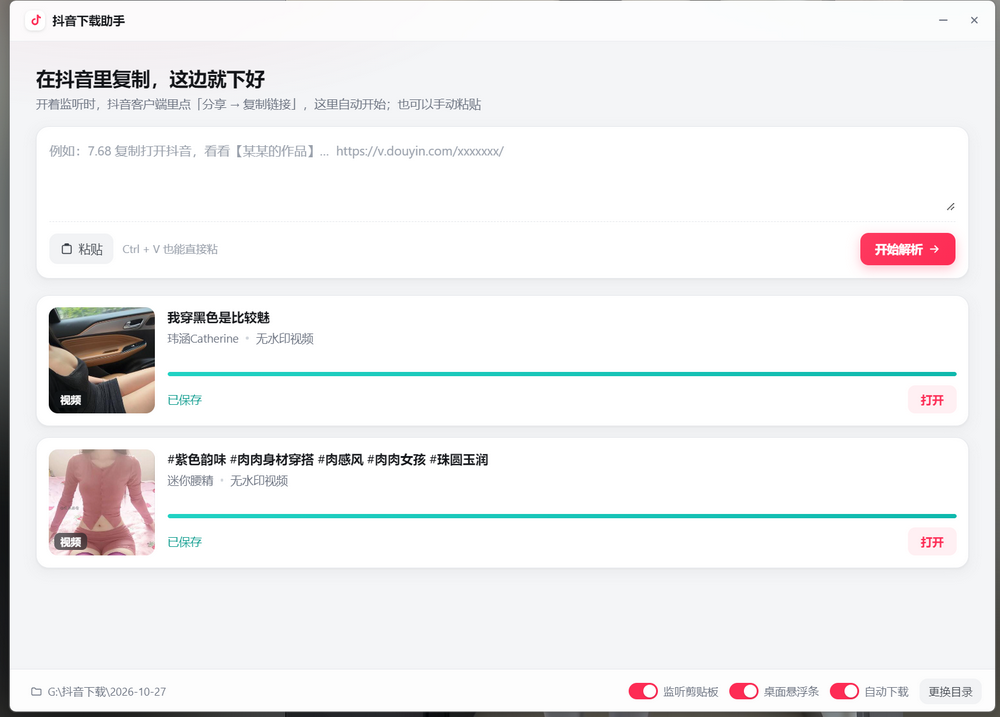
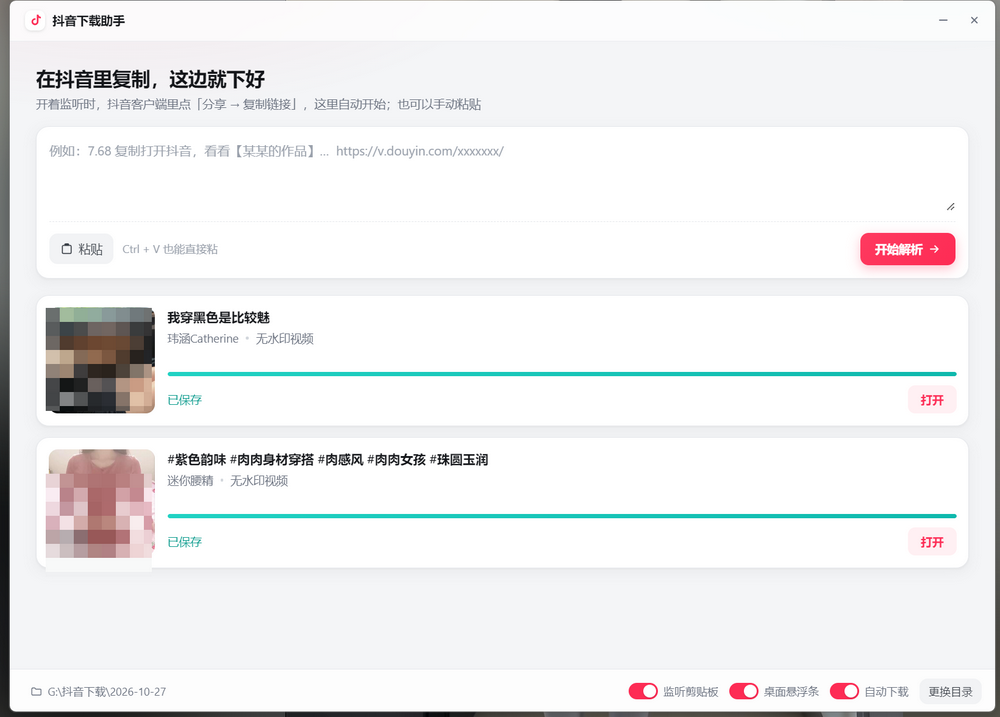
docs: 截图缩略图打码，README 增加下载入口
- docs/app-main.png 中两条作品缩略图做马赛克处理（scripts/make-shots.js 内实现，
  按块取平均色，先在全分辨率上打码再缩放）
- README 增加「下载」一节，指向 Release v1.0.0 的免安装包

Changed region(s): [[0.031, 0.4296, 0.155, 0.583], [0.031, 0.6444, 0.155, 0.7978]]

diff --git a/scripts/make-shots.js b/scripts/make-shots.js
@@ -8,41 +8,70 @@ const OUT = path.join(__dirname, '..', 'docs');
 
 function ensure(d) { if (!fs.existsSync(d)) fs.mkdirSync(d, { recursive: true }); }
 
+/** 对 BGRA 位图的一块区域做马赛克（块平均色） */
+function mosaicBitmap(buf, imgW, imgH, rects, block) {
+  for (const r of rects) {
+    const x0 = Math.max(0, Math.round(r.x));
+    const y0 = Math.max(0, Math.round(r.y));
+    const x1 = Math.min(imgW, Math.round(r.x + r.w));
+    const y1 = Math.min(imgH, Math.round(r.y + r.h));
+    for (let by = y0; by < y1; by += block) {
+      for (let bx = x0; bx < x1; bx += block) {
+        const ex = Math.min(bx + block, x1);
+        const ey = Math.min(by + block, y1);
+        let sb = 0, sg = 0, sr = 0, n = 0;
+        for (let y = by; y < ey; y++) {
+          for (let x = bx; x < ex; x++) {
+            const i = (y * imgW + x) * 4;
+            sb += buf[i]; sg += buf[i + 1]; sr += buf[i + 2]; n++;
+          }
+        }
+        if (!n) continue;
+        const b = (sb / n) | 0, g = (sg / n) | 0, rr = (sr / n) | 0;
+        for (let y = by; y < ey; y++) {
+          for (let x = bx; x < ex; x++) {
+            const i = (y * imgW + x) * 4;
+            buf[i] = b; buf[i + 1] = g; buf[i + 2] = rr; buf[i + 3] = 255;
+          }
+        }
+      }
+    }
+  }
+}
+
 app.whenReady().then(() => {
   ensure(OUT);
 
-  // 1) 主窗口：整幅缩放
+  // 1) 主窗口：先把两个作品缩略图打码，再缩放
   const a = nativeImage.createFromPath(SRC2);
   const as = a.getSize();
-  console.log('shot2 size', as.width, 'x', as.height);
-  const aOut = a.resize({ width: 1000, quality: 'best' });
+  const buf = a.toBitmap();
+  console.log('shot2 size', as.width, 'x', as.height, 'bitmap bytes', buf.length);
+  const k = as.width / 1000; // 1000 宽预览图上的坐标 → 原图坐标
+  const thumbs = [
+    { x: 46 * k, y: 308 * k, w: 106 * k, h: 103 * k },
+    { x: 46 * k, y: 474 * k, w: 106 * k, h: 103 * k },
+  ];
+  console.log('mosaic rects', JSON.stringify(thumbs.map((t) => ({
+    x: Math.round(t.x), y: Math.round(t.y), w: Math.round(t.w), h: Math.round(t.h),
+  }))));
+  mosaicBitmap(buf, as.width, as.height, thumbs, Math.round(14 * k));
+  const masked = nativeImage.createFromBuffer(buf, { width: as.width, height: as.height, scaleFactor: 1 });
+  const aOut = masked.resize({ width: 1000, quality: 'best' });
   fs.writeFileSync(path.join(OUT, 'app-main.png'), aOut.toPNG());
   console.log('app-main.png', aOut.getSize().width, 'x', aOut.getSize().height,
     fs.statSync(path.join(OUT, 'app-main.png')).size, 'bytes');
 
-  // 2) 抖音窗口右下角：裁出播放器 + 悬浮条，放大 2 倍
+  // 2) 抖音窗口右下角：裁出播放器 + 悬浮条，放大
   const b = nativeImage.createFromPath(SRC1);
   const bs = b.getSize();
-  console.log('shot1 size', bs.width, 'x', bs.height);
   const rx = Math.round(bs.width * 0.66);
   const ry = Math.round(bs.height * 0.62);
-  const rw = bs.width - rx;
-  const rh = bs.height - ry;
-  const crop = b.crop({ x: rx, y: ry, width: rw, height: rh });
+  const crop = b.crop({ x: rx, y: ry, width: bs.width - rx, height: bs.height - ry });
   const bOut = crop.resize({ width: 900, quality: 'best' });
   fs.writeFileSync(path.join(OUT, 'float-bar.png'), bOut.toPNG());
-  console.log('float-bar.png crop', rw, 'x', rh, '->', bOut.getSize().width, 'x', bOut.getSize().height,
+  console.log('float-bar.png', bOut.getSize().width, 'x', bOut.getSize().height,
     fs.statSync(path.join(OUT, 'float-bar.png')).size, 'bytes');
-
-  // 3) 悬浮条特写（只截小条本身）
-  const cx = Math.round(bs.width * 0.775);
-  const cy = Math.round(bs.height * 0.895);
-  const cw = Math.round(bs.width * 0.225);
-  const ch = Math.round(bs.height * 0.105);
-  const crop2 = b.crop({ x: cx, y: cy, width: cw, height: ch });
-  const cOut = crop2.resize({ width: 640, quality: 'best' });
-  fs.writeFileSync(path.join(OUT, 'float-zoom.png'), cOut.toPNG());
-  console.log('float-zoom.png crop', cw, 'x', ch, '->', cOut.getSize().width, 'x', cOut.getSize().height);
 
   setTimeout(() => app.exit(0), 200);
 });

diff --git a/README.md b/README.md
@@ -7,6 +7,17 @@
 
 ---
 
+## 下载
+
+不想自己编译的话，直接用打包好的：
+
+**[Releases → v1.0.0](https://github.com/baominghua/douyin-helper/releases/tag/v1.0.0)**
+`DouyinHelper-v1.0.0-win-x64.zip`（96.5 MB，从 229 MB 压到 96.5 MB）
+
+解压后双击 `抖音下载助手.exe` 即可运行，**不需要装 Node.js 或任何依赖**，支持 Windows 10 / 11 x64。
+
+---
+
 ## 界面
 
 **主窗口** —— 在抖音里点「分享 → 复制链接」，这边自动解析并下载，按日期归档：
